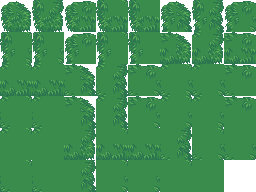
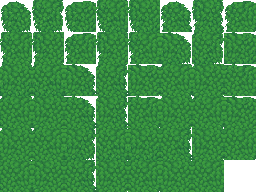
feat(aset): varian tanah per wilayah, tileset hiasan, props rawa/laut, tunggul dijahit ulang
- rumput/hutan/tanah keruh untuk Rawa Terasi dan Sarang Buto
- tileset dekor.png (semanggi, daun, batu, tulang, tengkorak) dan tekstur daun di kanopi bambu
- props gelagah, tiang tengkorak, pagar tali, ranting, pohon akar, dermaga, tong, jemuran jala
- tunggul_rawa disambung dari dua potongan lembar sumber (sebelumnya terpotong)

Changed region(s): [[0.0, 0.0, 1.0, 1.0]]

diff --git a/tools/build_assets.py b/tools/build_assets.py
@@ -150,12 +150,70 @@ def build_tiles():
     shutil.copy(os.path.join(SEV, 'bamboo.png'), os.path.join(TILES, 'bamboo.png'))
     for out, (src, frames) in autos.items():
         autotile.bake(os.path.join(SEV, src), os.path.join(TILES, out), frames)
+    # varian warna per wilayah: rumput rawa keruh kecokelatan, sarang Buto pucat-sakit
+    tinted = {
+        'auto_rumput_rawa.png': ('dschungel-gras.png', (0.92, 0.82, 0.52), 0.45),
+        'auto_hutan_rawa.png': ('jungle-foliage-ground1.png', (0.85, 0.8, 0.55), 0.4),
+        'auto_rumput_sarang.png': ('dschungel-gras.png', (0.8, 0.78, 0.5), 0.6),
+        'auto_hutan_sarang.png': ('jungle-foliage-ground1.png', (0.7, 0.7, 0.48), 0.55),
+        'auto_tanah_rawa.png': ('dschungel-gras-b.png', (0.85, 0.78, 0.6), 0.4),
+    }
+    for out, (src, mul, desat) in tinted.items():
+        tmp = os.path.join(TILES, '_tint.png')
+        _tint_water(Image.open(os.path.join(SEV, src)).convert('RGBA'), mul, desat).save(tmp)
+        autotile.bake(tmp, os.path.join(TILES, out), 1)
+        os.remove(tmp)
+    texture_canopy()
+    build_decor_tiles()
 
 
-if __name__ == '__main__':
-    build_characters()
-    build_tiles()
-    print('aset selesai:', sorted(os.listdir(CHARS)), len(os.listdir(TILES)), 'tileset')
+def texture_canopy():
+    """Kanopi bambu aslinya hijau polos di bagian dalam: beri tekstur daun (dari autotile semak2)
+    agar massa hutan bambu tidak terlihat datar. Alpha kanopi asli dipertahankan."""
+    full = autotile.index_for(0xFF)
+    leaf = Image.open(os.path.join(TILES, 'auto_semak2.png')).convert('RGBA')
+    lt = leaf.crop(((full % 8) * 32, (full // 8) * 32, (full % 8 + 1) * 32, (full // 8 + 1) * 32))
+    path = os.path.join(TILES, 'auto_bambu_atas.png')
+    can = Image.open(path).convert('RGBA')
+    tex = Image.new('RGBA', can.size)
+    for y in range(0, can.height, 32):
+        for x in range(0, can.width, 32):
+            tex.paste(lt.transpose(Image.FLIP_LEFT_RIGHT) if (x // 32 + y // 32) % 2 else lt, (x, y))
+    tinted = ImageChops.multiply(tex.convert('RGB'), Image.new('RGB', can.size, (200, 255, 190)))
+    mixed = Image.blend(can.convert('RGB'), tinted, 0.6).convert('RGBA')
+    mixed.putalpha(can.split()[3])
+    mixed.save(path)
+
+
+def build_decor_tiles():
+    """Tileset hiasan kecil 32x32 (rumput semanggi, daun gugur, jamur, tulang) untuk layer `hiasan`.
+    Digambar di bawah karakter dan tidak menghalangi; dipakai generator peta agar tanah tidak datar."""
+    swamp = Image.open(os.path.join(SEV, 'dead-swamp-v4.png')).convert('RGBA')
+    trunk = Image.open(os.path.join(SEV, 'tree-trunk-32x32swamp.png')).convert('RGBA')
+    trunk2 = Image.open(os.path.join(SEV, 'tree-trunk-32x32.png')).convert('RGBA')
+    dung = Image.open(os.path.join(SEV, 'evildungeon_0.png')).convert('RGBA')
+    # urutan = indeks tile (dipakai tools/make_maps.py: DEKOR_*)
+    pieces = [
+        trunk.crop((32, 128, 56, 144)), trunk.crop((80, 128, 128, 152)), trunk.crop((168, 126, 224, 160)),  # 0-2 semanggi
+        swamp.crop((130, 1604, 162, 1632)), swamp.crop((192, 1598, 222, 1616)), swamp.crop((162, 1614, 192, 1632)),  # 3-5 daun
+        swamp.crop((228, 1157, 254, 1172)),            # 6 tengkorak
+        dung.crop((0, 256, 32, 288)),                  # 7 tulang (tile dungeon 64)
+        swamp.crop((172, 1536, 192, 1570)),            # 8 ranting kering
+        trunk.crop((222, 800, 256, 830)), trunk.crop((222, 835, 256, 860)),  # 9-10 batu kecil
+    ]
+    sheet = Image.new('RGBA', (8 * 32, 2 * 32), (0, 0, 0, 0))
+    for i, p in enumerate(pieces):
+        box = p.getbbox()
+        if box:
+            p = p.crop(box)
+        if p.width > 32 or p.height > 32:
+            k = 32 / max(p.width, p.height)
+            p = p.resize((max(1, int(p.width * k)), max(1, int(p.height * k))), Image.NEAREST)
+        cx, cy = (i % 8) * 32, (i // 8) * 32
+        sheet.alpha_composite(_night(p, 0.85, 0.8), (cx + (32 - p.width) // 2, cy + 32 - p.height - 2))
+    sheet.save(os.path.join(TILES, 'dekor.png'))
+
+
 
 
 # ------------------------------------------------------------------ battle
@@ -328,7 +386,37 @@ def build_props():
     save_prop(_crop(swamp, (192, 227, 256, 350)), 'rak_bambu.png')
     save_prop(_night(_crop('bamboo.png', (160, 128, 224, 320)), 0.8), 'bambu_tinggi_a.png')
     save_prop(_night(_crop('bamboo.png', (200, 128, 256, 320)), 0.8), 'bambu_tinggi_b.png')
-    save_prop(_night(_crop('tree-trunk-32x32swamp.png', (70, 164, 256, 494)), 0.7), 'tunggul_rawa.png')
+    # tunggul rawa: di lembar sumber tunggul terpotong di tepi kanan (x=256); sisa kanannya ada
+    # 300 px lebih bawah di tepi kiri lembar. Dua potongan dijahit lalu serpihan tetangga dihapus.
+    trunk = Image.open(os.path.join(SRC, 'sevarihk', 'tree-trunk-32x32swamp.png')).convert('RGBA')
+    st = Image.new('RGBA', (400, 350), (0, 0, 0, 0))
+    st.alpha_composite(trunk.crop((60, 160, 256, 500)), (0, 0))
+    st.alpha_composite(trunk.crop((0, 530, 180, 800)), (196, 70))
+    clear = Image.new('RGBA', (1, 1), (0, 0, 0, 0))
+    for box in [(300, 55, 400, 102), (262, 55, 300, 74), (352, 272, 400, 312), (196, 330, 400, 350)]:
+        st.paste(clear.resize((box[2] - box[0], box[3] - box[1])), box[:2])
+    save_prop(_night(_trim(st), 0.7), 'tunggul_rawa.png')
+    # hiasan rawa/sarang dari Dead Swamp: gelagah, tiang tengkorak, pagar tali, ranting mati
+    # dermaga busuk Laut Garam: papan jalan Fisher's Hut disambung memanjang, ujung bertiang di laut
+    hut = 'mini-fishers-hut.png'
+    planks = _crop(hut, (90, 282, 156, 425))
+    legs = _crop(hut, (90, 425, 156, 462)).transpose(Image.FLIP_TOP_BOTTOM)
+    pier = Image.new('RGBA', (66, 7 * 32), (0, 0, 0, 0))
+    y = legs.height - 6
+    while y < pier.height:
+        pier.alpha_composite(planks, (0, y))
+        y += planks.height - 4
+    pier.alpha_composite(legs, (0, 0))
+    save_prop(_night(_hue_shift(pier, (0.8, 0.76, 0.72)), 0.72, 0.55), 'dermaga.png')
+    save_prop(_night(_crop(hut, (326, 122, 364, 176)), 0.75, 0.6), 'tong.png')
+    jemur = _crop(hut, (12, 495, 156, 566))
+    save_prop(_night(_trim(jemur), 0.75, 0.6), 'jemuran_jala.png')
+    save_prop(_night(_crop(swamp, (222, 1534, 256, 1600)), 0.8), 'gelagah.png')
+    save_prop(_night(_crop(swamp, (192, 1534, 222, 1600)), 0.8), 'gelagah_b.png')
+    save_prop(_night(_trim(_crop(swamp, (192, 1120, 229, 1216))), 0.8), 'tiang_tengkorak.png')
+    save_prop(_night(_trim(_crop(swamp, (0, 1160, 92, 1214))), 0.8), 'pagar_tali.png')
+    save_prop(_night(_trim(_crop(swamp, (124, 1530, 160, 1600))), 0.8), 'ranting_mati.png')
+    save_prop(_night(_trim(_crop(swamp, (0, 1534, 64, 1616))), 0.75), 'pohon_akar.png')
 
 
 # ------------------------------------------------------------------ aset Codex
@@ -445,6 +533,9 @@ def build_codex():
 
 
 if __name__ == '__main__':
+    build_characters()
+    build_tiles()
+    print('aset selesai:', sorted(os.listdir(CHARS)), len(os.listdir(TILES)), 'tileset')
     build_battle()
     build_props()
     print('komponen props ladang:', build_codex())

diff --git a/CREDITS.md b/CREDITS.md
@@ -41,6 +41,13 @@ diproses (latar dibuang, grid piksel dikembalikan, diskalakan) oleh `tools/build
 Perubahan: autotile RPG Maker XP dibakar ulang menjadi lembar 47 tile (`tools/autotile.py`); sprite karakter
 dirakit dari beberapa lapisan dan diwarnai ulang.
 
+Turunan tambahan dari paket Sevarihk di atas (CC-BY 4.0, dibuat `tools/build_assets.py`):
+varian warna rumput/hutan/tanah untuk Rawa Terasi & Sarang Buto (`auto_*_rawa.png`, `auto_*_sarang.png`);
+tekstur daun pada kanopi bambu (dari Ground and Foliage Autotiles); tileset hiasan kecil `dekor.png`
+(semanggi & batu dari Tree Trunk, daun gugur/tengkorak/ranting dari Dead Swamp, tulang dari Evil Dungeon);
+props `gelagah`, `tiang_tengkorak`, `pagar_tali`, `ranting_mati`, `pohon_akar` (Dead Swamp); `dermaga`, `tong`,
+`jemuran_jala` (Fisher's Hut); `tunggul_rawa` dijahit dari dua potongan lembar Tree Trunk (swamp).
+
 ## Audio
 
 Musik (semua CC0, lisensi dicek di halaman OpenGameArt masing-masing):
